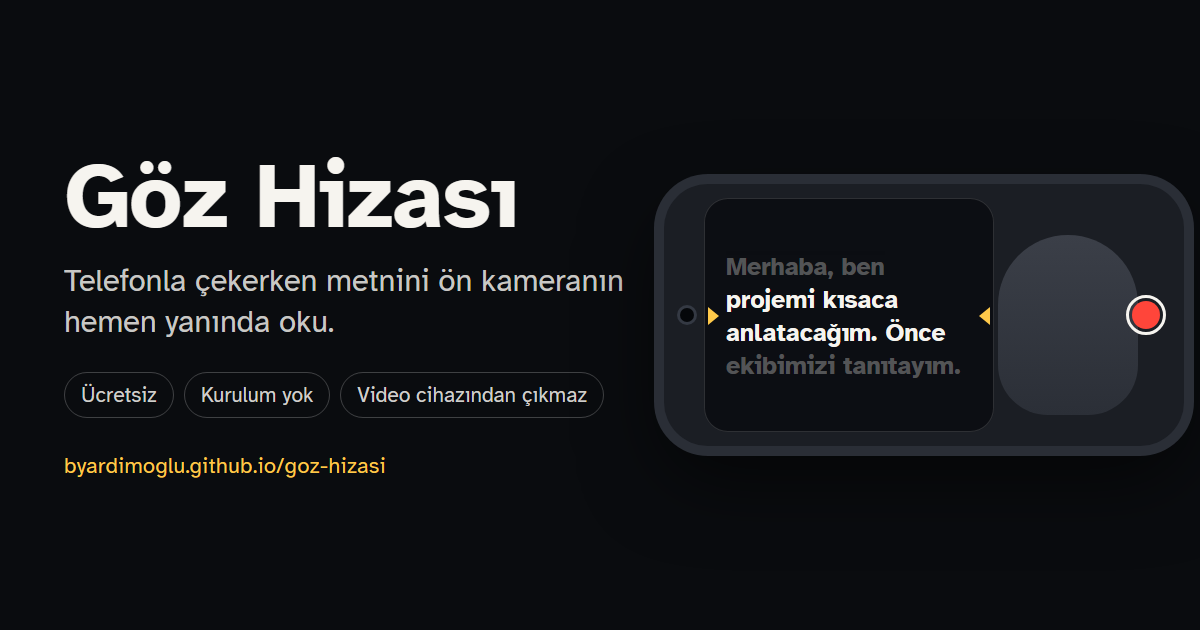
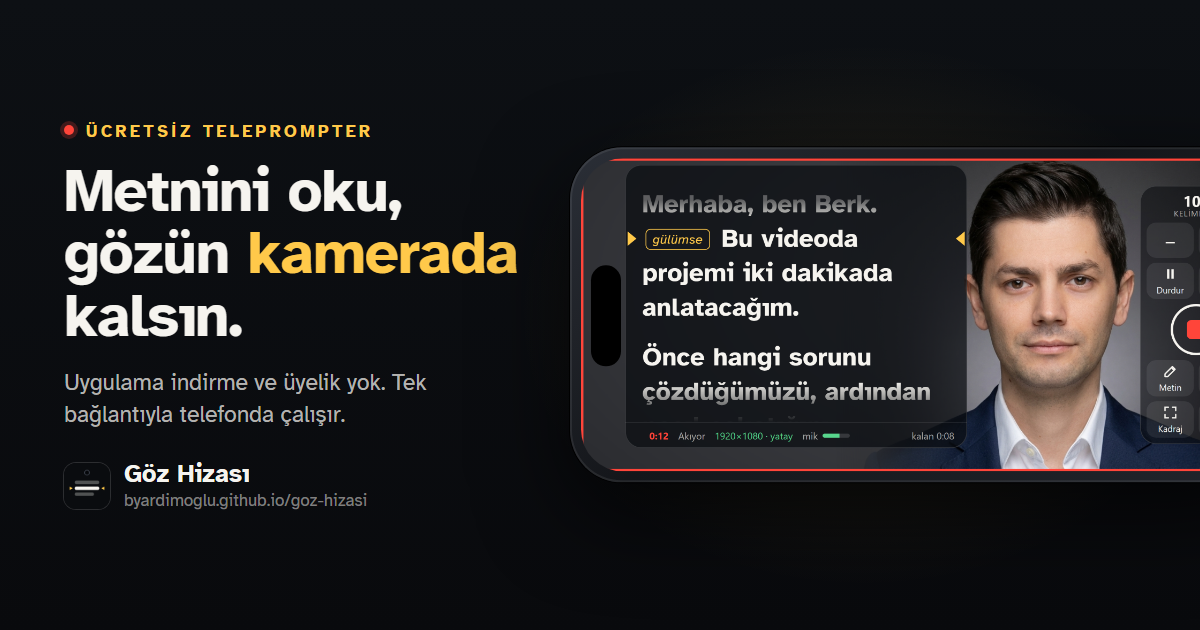
Oynat/durdur simgesi düzeltildi, yeni paylaşım görseli
SVG öğelerinde .hidden özelliği çalışmadığından simge hiç değişmiyordu;
artık hidden özniteliği değiştiriliyor.

Changed region(s): [[0.0308, 0.181, 1.0, 0.7841], [0.0308, 0.7238, 0.3392, 0.8143]]

diff --git a/index.html b/index.html
@@ -438,7 +438,8 @@ Akışı durdurmak için metne dokun. Geri dönmek ya da ileri atlamak için par
   }
   function updateState() {
     $('#stateChip').textContent = playing ? 'Akıyor' : (offset > 1 ? (offset >= maxOff - 1 ? 'Bitti' : 'Durdu') : 'Hazır');
-    $('#icoPlay').hidden = playing; $('#icoPause').hidden = !playing;
+    // SVG öğelerinde .hidden özelliği yok; özniteliği doğrudan değiştir.
+    $('#icoPlay').toggleAttribute('hidden', playing); $('#icoPause').toggleAttribute('hidden', !playing);
     $('#playLbl').textContent = playing ? 'Durdur' : (offset > 1 && offset < maxOff - 1 ? 'Devam' : 'Prova');
   }
 
